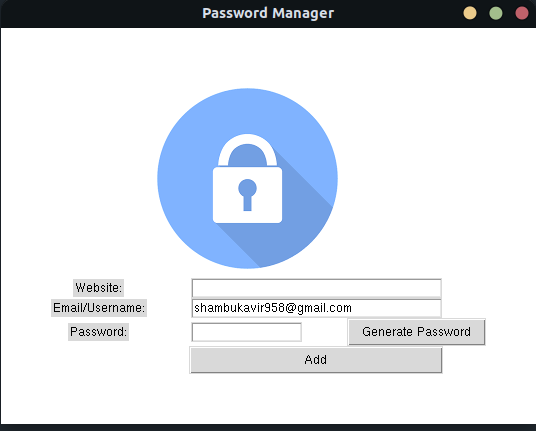
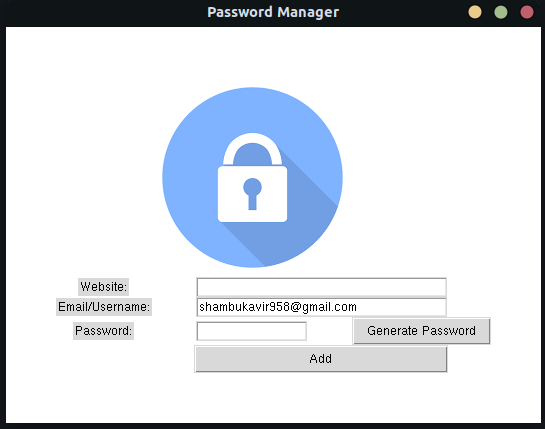
updated readme

diff --git a/main.py b/main.py
@@ -57,7 +57,7 @@ def saveData():
 
 window = Tk()
 window.title("Password Manager")
-window.config(padx=50, pady=50, bg="white" )
+window.config(padx=50, pady=50,  )
 
 canvas = Canvas(height=200, width=200, highlightthickness=0)
 logo_img = PhotoImage(file= "logo.png")
